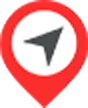
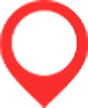
Agregando mapa para el contacto y cambiando el icono de map

diff --git a/style.css b/style.css
@@ -233,7 +233,8 @@ ul#logos li{
 	color: #ffffff;
 }
 #text-contact{
-	background: #f5f5f7;
+	background: #f5f5f7 url(library/img/mapa-zona.png) no-repeat;
+	background-position: center;
 	height: 100%;
 	color: #4c4e4e;
 	padding: 50px 0px;
